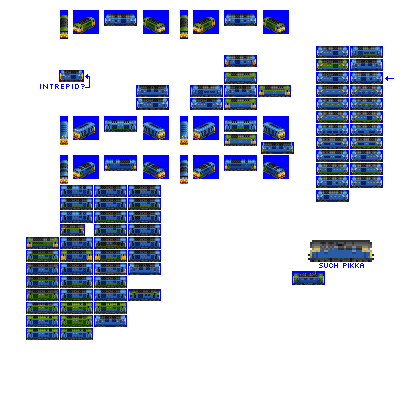
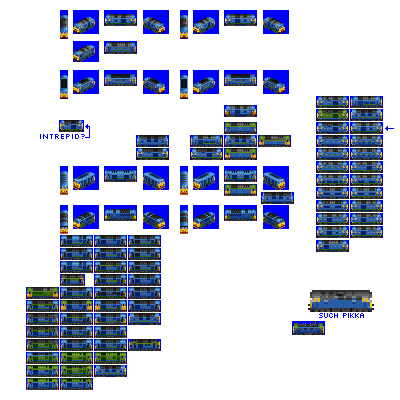
Change: sprites complete for Intrepid

diff --git a/src/vehicles/intrepid.py b/src/vehicles/intrepid.py
@@ -14,7 +14,7 @@ def main(roster_id):
                             fixed_run_cost_points=40, # give a bonus so this can be a genuine mixed-traffic engine
                             intro_date_offset=2,  # let's be a tiny bit later for this one
                             default_livery_extra_docs_examples=[('COLOUR_GREEN', 'COLOUR_WHITE')],
-                            sprites_complete=False)
+                            sprites_complete=True)
 
     consist.add_unit(type=DieselEngineUnit,
                      weight=115, # bonus over Wyvern
